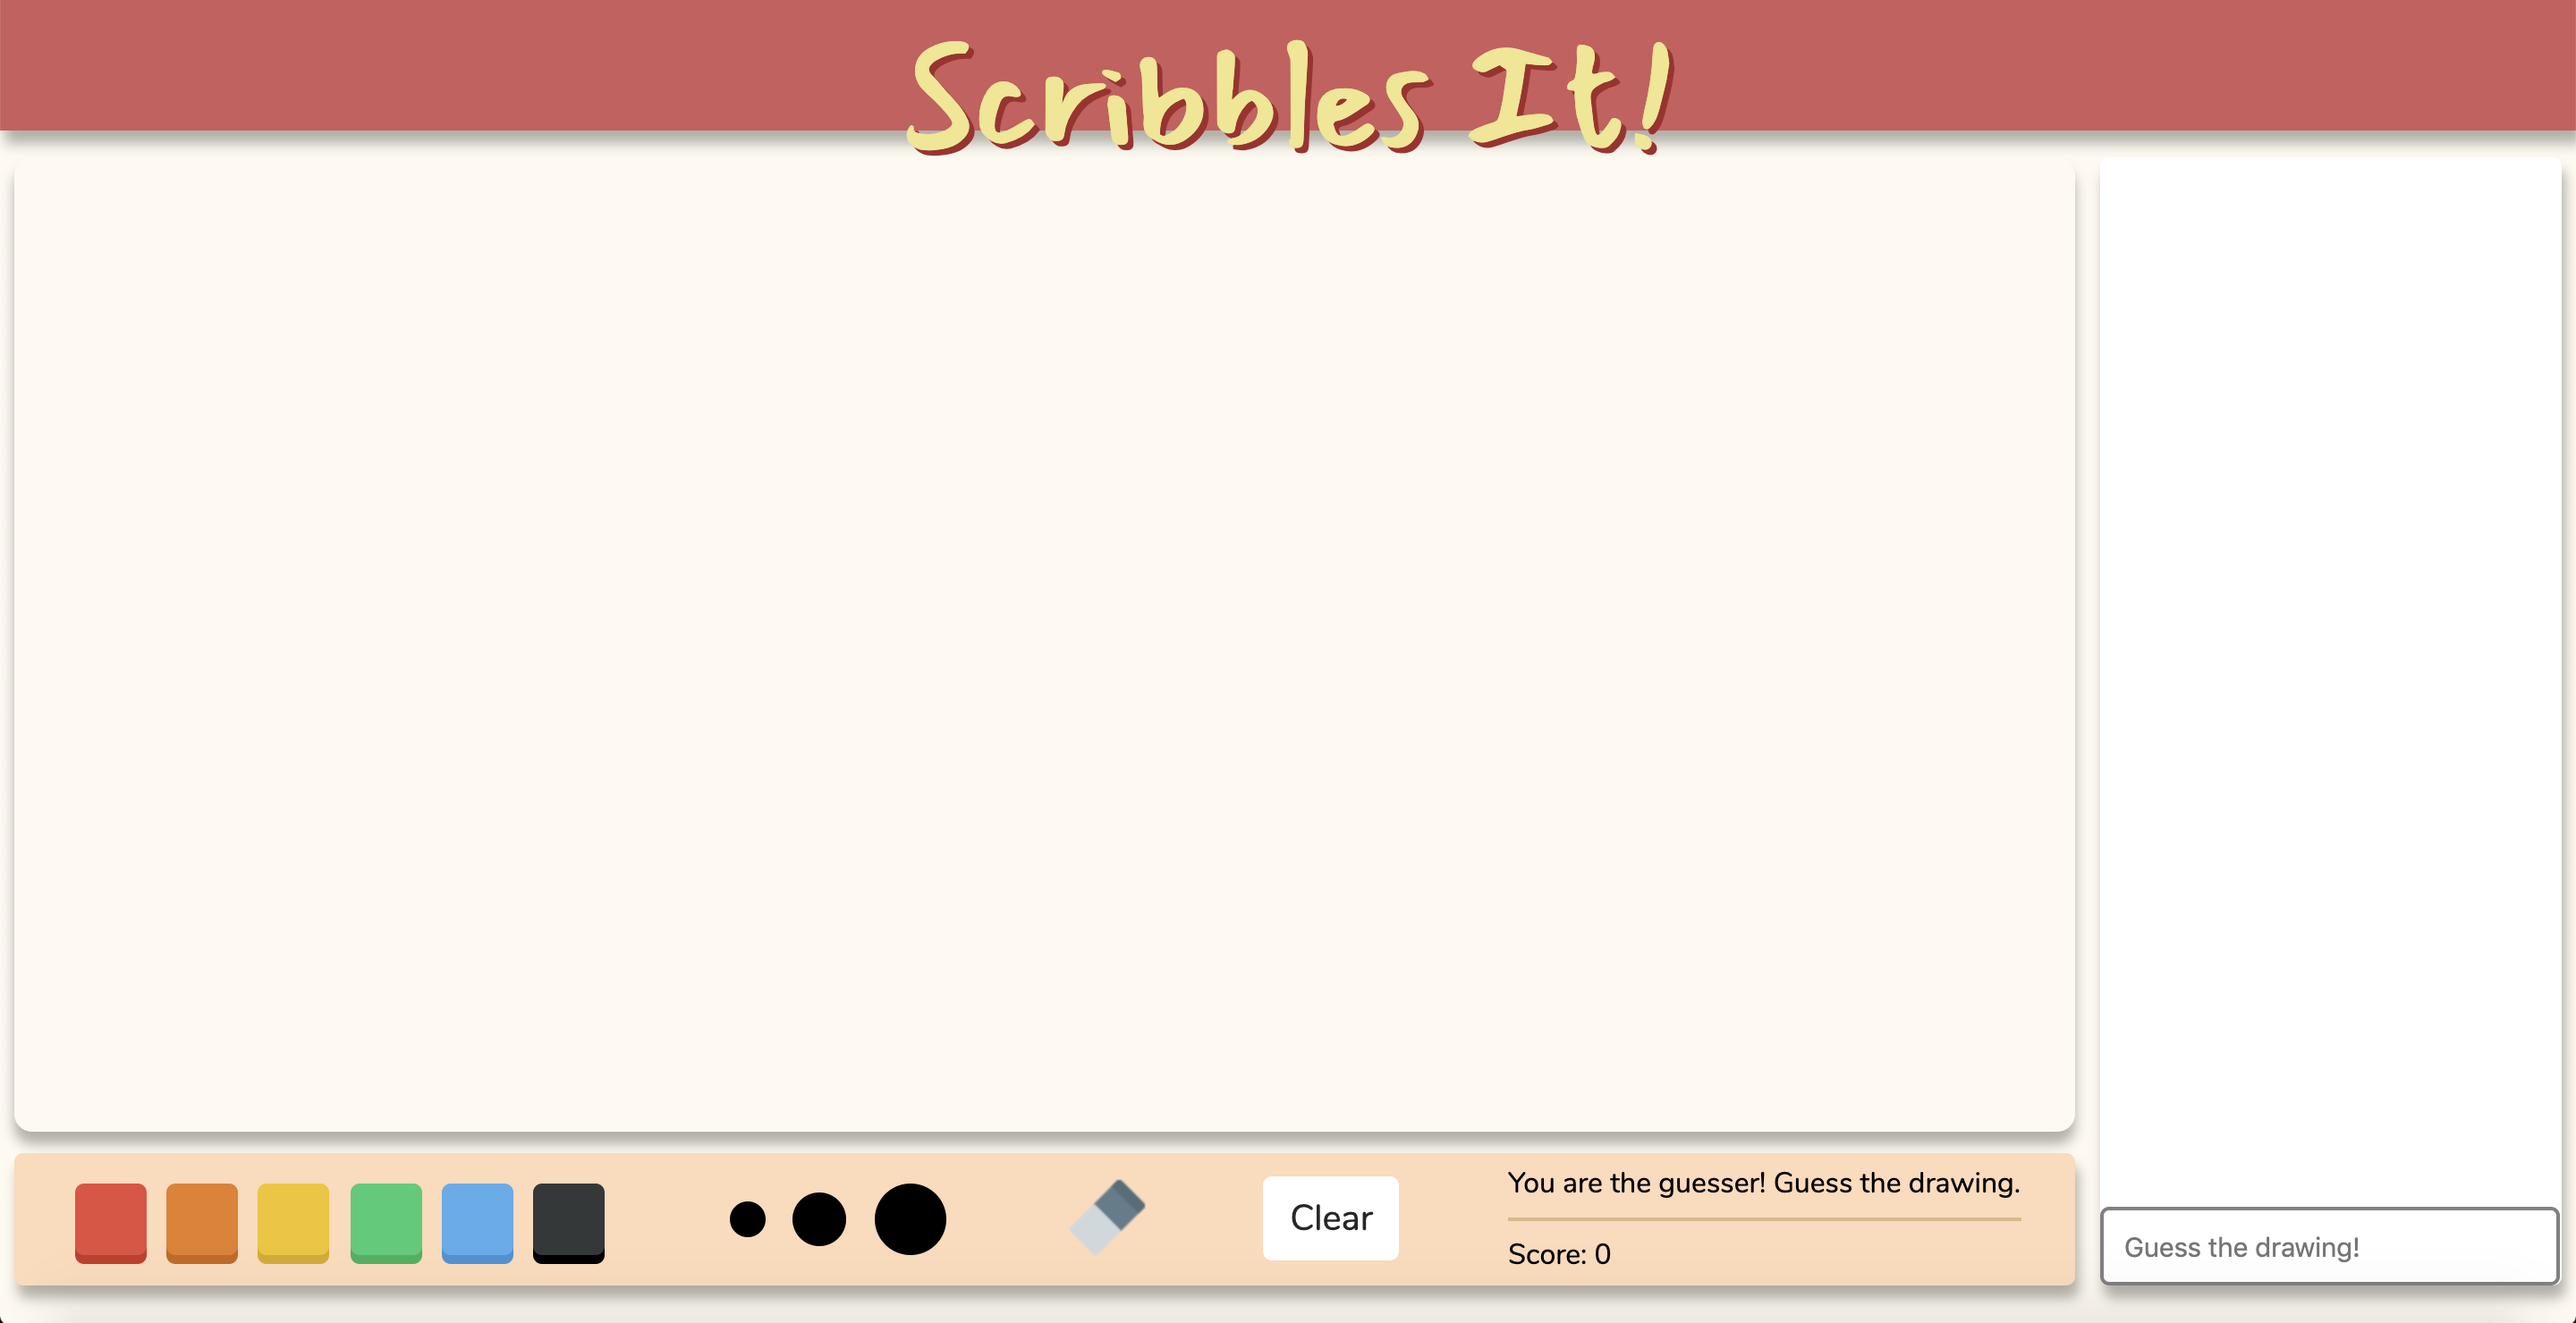
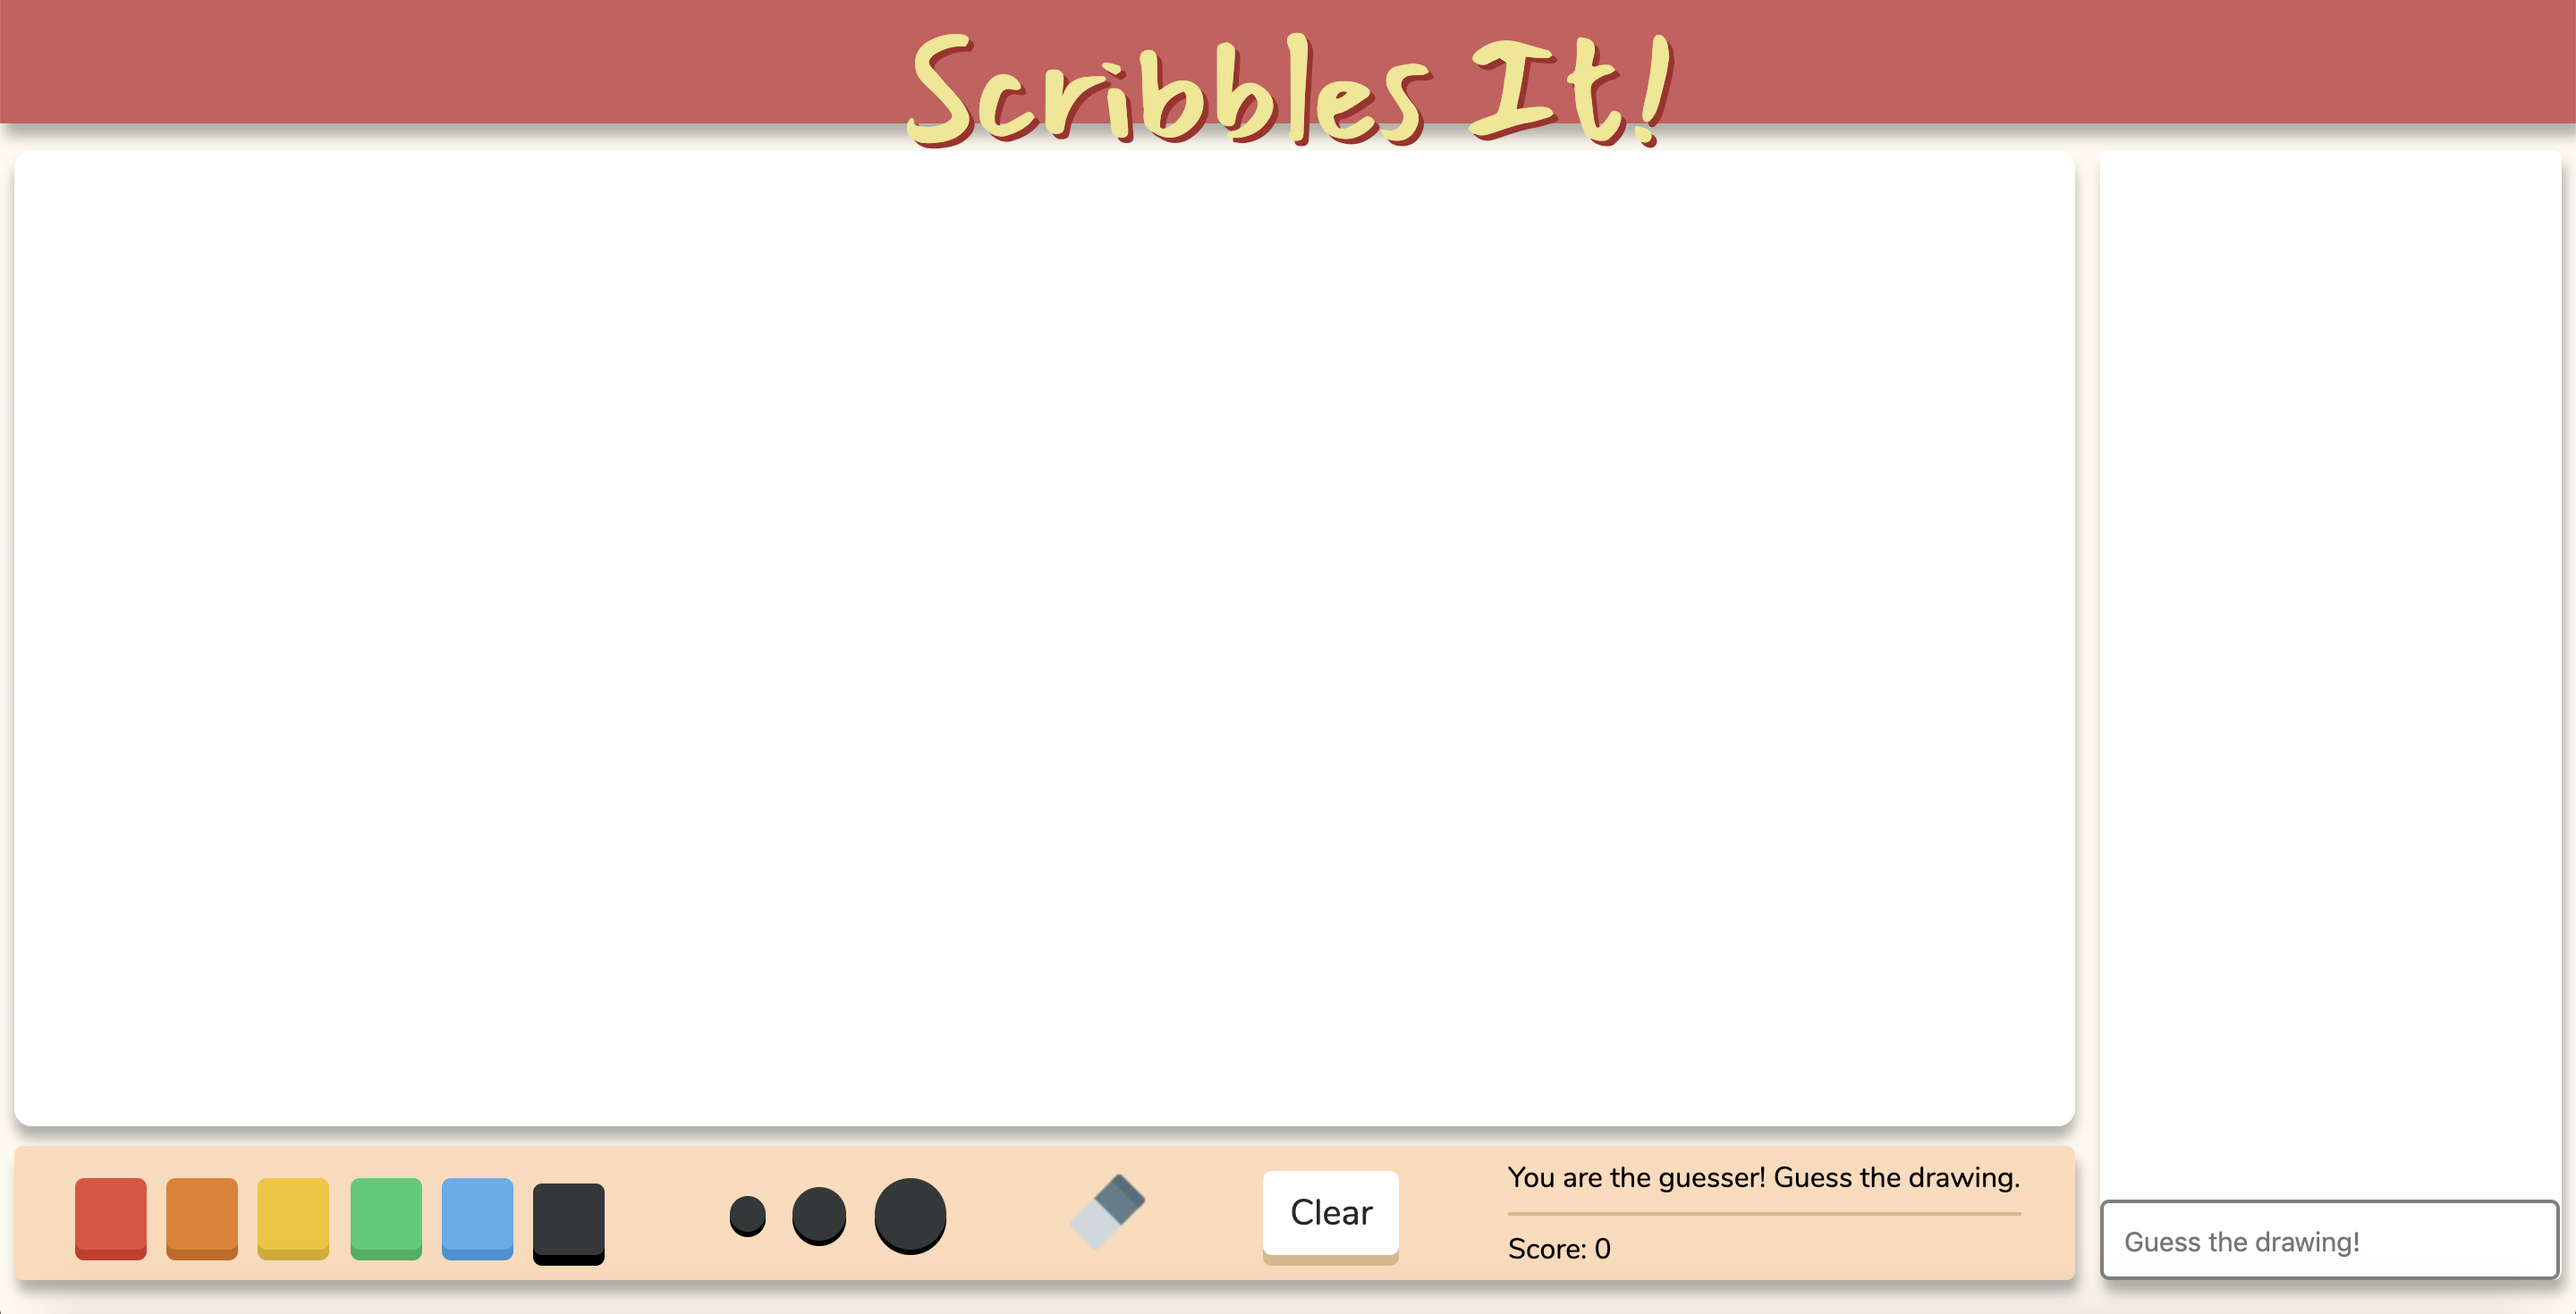
Fix CSS

diff --git a/public/style.css b/public/style.css
@@ -154,16 +154,16 @@ canvas {
   border-radius: 100%;
   margin: 0 0.4vw;
   background-color: #353839;
+  box-shadow: 0px 3px 0px 0px #000000;
 }
 
-/* .brushbutton:focus {
+.brushbutton:focus {
   outline: 0;
   transform: translateY(2px);
-} */
+}
 
 #small  {
   padding: 10px;
-  box-shadow: 0px 2px 0px 0px #000000;
 }
 
 #medium {
@@ -181,10 +181,10 @@ canvas {
   cursor: pointer;
 }
 
-/* #erase-button:focus {
+#erase-button:focus {
   outline: 0;
-  transform: translateY(4px);
-} */
+  transform: translateY(2px);
+}
 
 #clear-button {
   cursor: pointer;
@@ -196,11 +196,11 @@ canvas {
   box-shadow: 0px 6px 0px 0px BurlyWood;
 }
 
-/* #clear-button:focus {
+#clear-button:focus {
   transform: translateY(2px);
   box-shadow: 0px 4px 0px 0px BurlyWood;
   outline: 0;
-} */
+}
 
 #draw-score {
   text-align: left;
